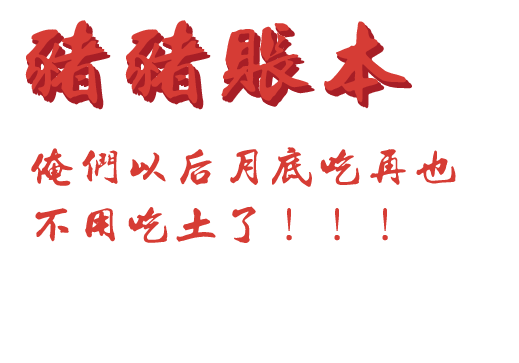
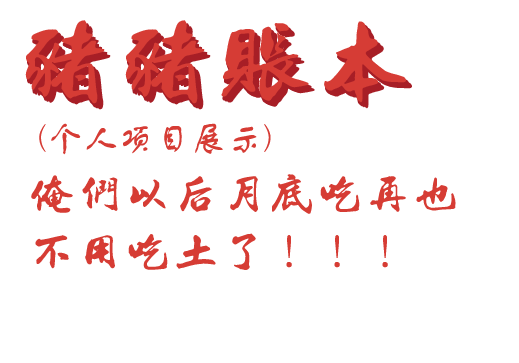
备案修改

diff --git a/src/components/pigFoot.vue b/src/components/pigFoot.vue
@@ -1,0 +1,107 @@
+<template>
+    <div style="width: 100%">
+        <div class="view_foot">
+            <div class="view_foot_left">
+                <p class="view_foot_p1">猪猪账本</p>
+                <p class="view_foot_p2">一个专门用来记账查看自己剁手记录的网站（个人制作，个人项目展示）</p>
+                <p class="view_foot_p2">备案号： <img src="../../static/img/icon-police.png"/> 蜀ICP备19010249号</p>
+            </div>
+            <div class="view_foot_right">
+                <p class="view_foot_p1">个人链接</p>
+                <p class="view_foot_p2"><a href="https://gitee.com/missshen/events" target="_blank">码云主页</a>&nbsp;&nbsp;&nbsp;&nbsp;&nbsp;&nbsp;<a href="https://juejin.im/user/5d1c80f5f265da1bcb4f4812" target="_blank">掘金主页</a></p>
+                <p class="view_foot_img">
+                    <a href="tencent://AddContact/?fromId=50&fromSubId=1&subcmd=all&uin=962717593" target="class"><img src="../../static/img/qq.png"/></a>
+                    <a href="javascript:;" @click="dialogVisible = true"><img src="../../static/img/weixin.png"/></a>
+                    <a href="https://github.com/wyx11223344" target="class"><img src="../../static/img/github.png"/></a>
+                </p>
+            </div>
+        </div>
+        <el-dialog
+                title="请扫码添加微信好友"
+                :visible.sync="dialogVisible"
+                :modal-append-to-body="false"
+                width="70%">
+            <div style="width: 100% ; position: relative ; height: 300px">
+                <img src="../../static/img/weixiner.jpg" style="width: 100% ; max-width: 300px; position: absolute ; left: 0 ; top: 0 ; right: 0 ; margin: auto "/>
+            </div>
+        </el-dialog>
+    </div>
+</template>
+
+<script>
+export default {
+    name: 'pigFoot',
+    data() {
+        return {
+            dialogVisible: false
+        };
+    }
+};
+</script>
+
+<style scoped lang="less">
+    .view_foot{
+        width: 100%;
+        height: 150px;
+        background-color: rgba(0,0,0,0.7);
+        color: white;
+        display: flex;
+        justify-content: center;
+        .view_foot_left{
+            width: 800px;
+            padding:0 10px 0 10px;
+            .view_foot_p1{
+                margin-top: 20px;
+                font-size: 20px;
+                font-weight: bold;
+            }
+            .view_foot_p2{
+                margin-top: 10px;
+                font-size: 16px;
+                color: #bebebe;
+                a{
+                    color: #ffd4de
+                }
+            }
+        }
+        .view_foot_right{
+            width: 450px;
+            padding:0 10px 0 10px;
+            .view_foot_p1{
+                margin-top: 20px;
+                font-size: 20px;
+                font-weight: bold;
+                color: #bebebe;
+            }
+            .view_foot_p2{
+                margin-top: 10px;
+                font-size: 16px;
+                color: #bebebe;
+                a{
+                    color: #ffd4de
+                }
+            }
+            .view_foot_img{
+                margin-top: 15px;
+                height: 30px;
+                a{
+                    margin-right: 20px;
+                    img{
+                        width: 30px;
+                        height: 100%;
+                    }
+                }
+            }
+        }
+    }
+    /deep/ .el-dialog__header{
+        background-color: #38414a;
+        padding: 20px 15px 20px 15px;
+    }
+    /deep/ .el-dialog__title{
+        color: white;
+    }
+    /deep/ .el-dialog__headerbtn{
+        top: 15px;
+    }
+</style>

diff --git a/src/views/main/index.vue b/src/views/main/index.vue
@@ -4,25 +4,25 @@
       <titletop></titletop>
       <div class="banner_control" :style="{transform:'translate3d(0,'+(-100*slide)+'%,0)'}">
         <div class="banner0">
-          <img @click="updown" src="../../../static/img/down_font.png" class="icon_down"/>
+<!--          <img @click="updown" src="../../../static/img/down_font.png" class="icon_down"/>-->
           <img src="../../../static/img/banner1_font.png" class="banner_font"/>
           <img src="../../../static/img/cicle.png" class="banner_run"/>
           <img src="../../../static/img/banner1.png" alt="" class="banner_zoom">
         </div>
         <div class="banner1">
-          <img @click="updown" src="../../../static/img/down_font.png" class="icon_down"/>
+<!--          <img @click="updown" src="../../../static/img/down_font.png" class="icon_down"/>-->
           <img src="../../../static/img/banner1_font.png" class="banner_font"/>
           <img src="../../../static/img/cicle.png" class="banner_run"/>
           <img src="../../../static/img/banner1.png" alt="" class="banner_zoom">
         </div>
         <div class="banner2">
-          <img @click="updown" src="../../../static/img/down_font.png" class="icon_down"/>
+<!--          <img @click="updown" src="../../../static/img/down_font.png" class="icon_down"/>-->
           <img src="../../../static/img/banner1_font.png" class="banner_font"/>
           <img src="../../../static/img/cicle.png" class="banner_run"/>
           <img src="../../../static/img/banner1.png" alt="" class="banner_zoom">
         </div>
         <div class="banner3">
-          <img @click="updown" src="../../../static/img/down_font.png" class="icon_down"/>
+<!--          <img @click="updown" src="../../../static/img/down_font.png" class="icon_down"/>-->
           <img src="../../../static/img/banner1_font.png" class="banner_font"/>
           <img src="../../../static/img/cicle.png" class="banner_run"/>
           <img src="../../../static/img/banner1.png" alt="" class="banner_zoom">
@@ -33,6 +33,7 @@
           <img src="../../../static/img/banner1.png" alt="" class="banner_zoom">
         </div>
       </div>
+      <pig-foot style="position: fixed; bottom: 0 ; left: 0"></pig-foot>
       <!--<theme></theme>-->
       <slide></slide>
     </div>
@@ -43,6 +44,12 @@ import slide from './slide.vue';
 
 export default {
     name: 'index',
+    components: {
+        pigFoot: () => {
+            return import('@/components/pigFoot');
+        },
+        'slide': slide,
+    },
     data() {
         return {
             stop_scroll: false,
@@ -120,9 +127,6 @@ export default {
             }
         }
     },
-    components: {
-        'slide': slide,
-    }
 };
 </script>
 <style lang="less" scoped>

diff --git a/src/views/register/index.vue b/src/views/register/index.vue
@@ -130,34 +130,10 @@
                 </el-table>
             </div>
         </div>
-        <div class="view_foot">
-            <div class="view_foot_left">
-                <p class="view_foot_p1">猪猪账本</p>
-                <p class="view_foot_p2">一个专门用来记账查看自己剁手记录的网站（个人制作，数据有保障）</p>
-                <p class="view_foot_p2">法律声明：网站制作于个人，图标使用<a href="https://www.iconfont.cn/" target="_blank">阿里巴巴适量图标库</a></p>
-            </div>
-            <div class="view_foot_right">
-                <p class="view_foot_p1">个人链接</p>
-                <p class="view_foot_p2"><a href="https://gitee.com/missshen/events" target="_blank">码云主页</a>&nbsp;&nbsp;&nbsp;&nbsp;&nbsp;&nbsp;<a href="https://juejin.im/user/5d1c80f5f265da1bcb4f4812" target="_blank">掘金主页</a></p>
-                <p class="view_foot_img">
-                    <a href="tencent://AddContact/?fromId=50&fromSubId=1&subcmd=all&uin=962717593" target="class"><img src="../../../static/img/qq.png"/></a>
-                    <a href="javascript:;" @click="dialogVisible = true"><img src="../../../static/img/weixin.png"/></a>
-                    <a href="https://github.com/wyx11223344" target="class"><img src="../../../static/img/github.png"/></a>
-                </p>
-            </div>
-        </div>
         <div class="dia_my" :class="{disn: !show_big_check}" @click="show_small(show_big_index)">
 
         </div>
-        <el-dialog
-                title="请扫码添加微信好友"
-                :visible.sync="dialogVisible"
-                :modal-append-to-body="false"
-                width="70%">
-            <div style="width: 100% ; position: relative ; height: 300px">
-                <img src="../../../static/img/weixiner.jpg" style="width: 100% ; max-width: 300px; position: absolute ; left: 0 ; top: 0 ; right: 0 ; margin: auto "/>
-            </div>
-        </el-dialog>
+        <pig-foot></pig-foot>
         <image-cropper  v-if="imagecropperShow"
                         key="file"
                         :width="200"
@@ -213,6 +189,11 @@ export default {
     mixins: [
         beforeC
     ],
+    components: {
+        pigFoot: () => {
+            return import('@/components/pigFoot');
+        }
+    },
     data() {
         const dataCheck = (rule, value, callback) => {
             if (!this.timePick) {

diff --git a/setBaseUrl.js b/setBaseUrl.js
@@ -1,7 +1,7 @@
 let baseUrl = ''; //这里是一个默认的url，可以没有
 switch (process.env.NODE_ENV) {
 case 'development':
-    baseUrl = 'http://localhost:8068'; //这里是本地的请求url
+    baseUrl = 'http://pigshop.mrwanmisshen.com/'; //这里是本地的请求url
     break;
 case 'production':
     baseUrl = 'http://pigshop.mrwanmisshen.com/'; //生产环境url

diff --git a/public/index.html b/public/index.html
@@ -6,7 +6,7 @@
     <meta name="viewport" content="width=device-width,initial-scale=1.0,user-scalable=no">
     <link rel="icon" href="favicon.ico">
     <link rel="stylesheet" href="//at.alicdn.com/t/font_1121662_ooxhaanll6.css">
-    <title>猪猪账本</title>
+    <title>个人项目展示</title>
   </head>
   <body>
     <div id="app"></div>
